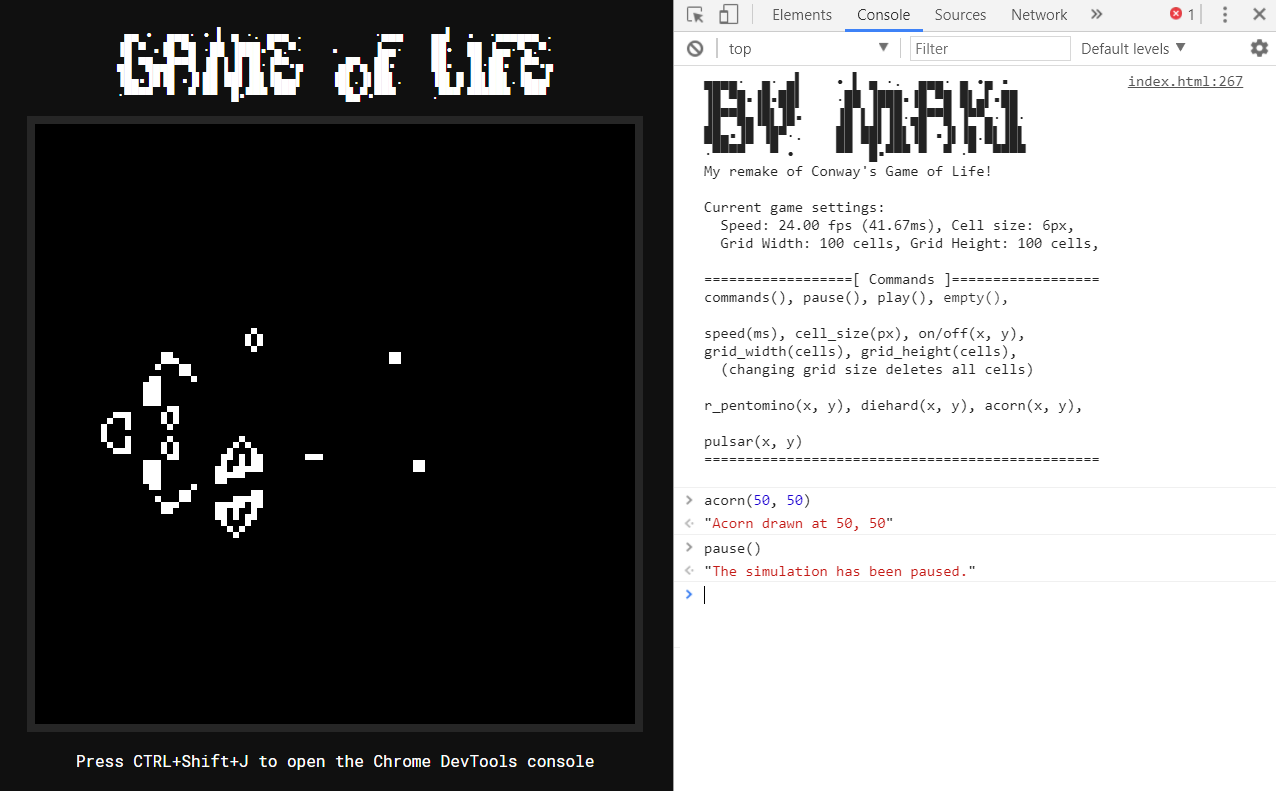
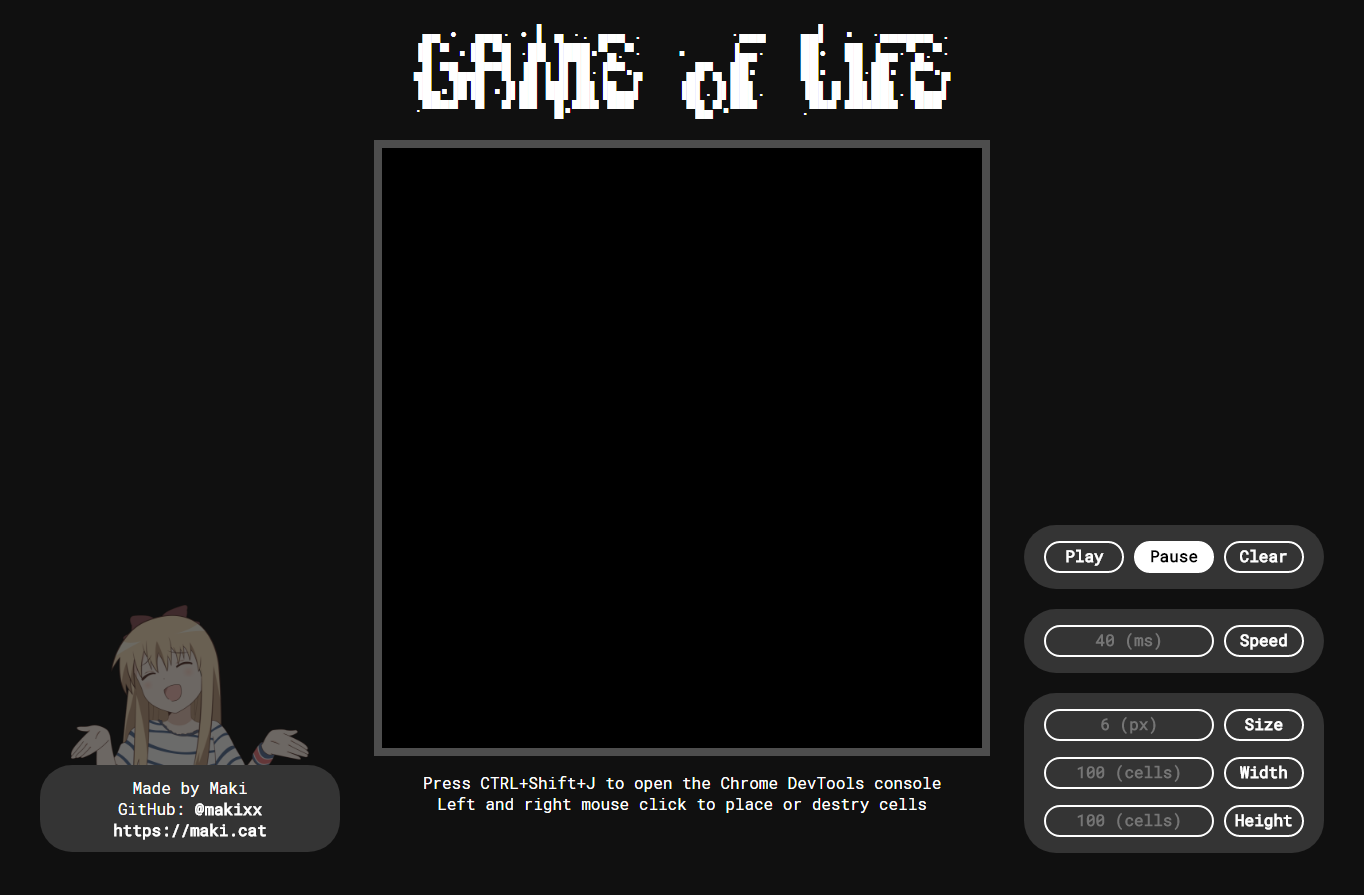
UI update

diff --git a/index.html b/index.html
@@ -2,7 +2,7 @@
 <html>
 	<head>
 		<title>Conway's Game of Life</title>
-		<link href="https://fonts.googleapis.com/css?family=Roboto+Mono" rel="stylesheet">
+		<link href="https://fonts.googleapis.com/css?family=Roboto+Mono:400|700" rel="stylesheet">
 		<style type="text/css">
 			body {
 				background-color: #101010;
@@ -12,30 +12,118 @@
 			}
 
 			#view, #title, #sub-title {
-				position: fixed; margin: auto;
+				position: absolute; margin: auto;
 				left: 0; right: 0;
 			}
 
-			#title, #sub-title { width: 100%; height: 100px; }
-			#title { top: 0; bottom: 720px; }
-			#sub-title { bottom: 0; top: 720px; }
+			#title, #sub-title { height: 100px; }
+			#title { top: 0; bottom: 780px; }
+			#sub-title { bottom: 0; top: 740px; }
 
 			#view {
 				top: 0; bottom: 0;
 				background-color: #000000;
-				border: solid 8px rgba(255, 255, 255, 0.15);
+				border: solid 8px rgba(255, 255, 255, 0.3);
+			}
+
+			::selection { background: transparent; opacity: 0; }
+			::-moz-selection { background: transparent; opacity: 0; }
+
+			#sidebar, #infobar {
+				z-index: 2000;
+				position: fixed; margin: auto;
+				bottom: 40px;
+				width: 300px;
+			}
+			#sidebar { right: 40px; height: 330px; }
+			#infobar { left: 40px; height: 250px; }
+
+			button, input {
+				font-family: "Roboto Mono";
+				font-weight: 700;
+				font-size: 16px;
+				color: #ffffff;
+				background: transparent;
+				border: solid 2px #ffffff;
+				border-radius: 32px;
+				margin: 8px 0;
+				text-align: center;
+				transition: all 200ms cubic-bezier(0.0, 0.0, 0.2, 1);
+			}
+
+			button { 
+				width: 80px;
+				height: 32px;
+				padding: 0 0 4px 0;
+			}
+
+			input {
+				width: 166px;
+				height: 24px;
+				padding: 0 0 4px 0;
+			}
+
+			button:hover, input:hover, .active {
+				background-color: #ffffff;
+				color: #000000;
+			}
+
+			.box {
+				background-color: rgba(255, 255, 255, 0.15);
+				border-radius: 32px;
+				margin-bottom: 20px;
+				padding: 8px 20px;
+			}
+
+			p {
+				margin: 4px;
+			}
+
+			button:focus, input:focus { outline: none; }
+
+			a, a:link, a:hover, a:visited {
+				color: #ffffff;
+				text-decoration: none;
+				font-weight: 700;
 			}
 		</style>
 	</head>
 	<body>
-		<div id="title"><pre>
+		<div id="title"><pre style="font-size: 16px;">
  ▄▄ •  ▄▄▄· • ▌ ▄ ·. ▄▄▄ .          ·▄▄▄    ▄▄▌  ▪  ·▄▄▄▄▄▄ .
 ▐█ ▀ ▪▐█ ▀█ ·██ ▐███▪▀▄.▀·    ▪     ▐▄▄·    ██•  ██ ▐▄▄·▀▄.▀·
 ▄█ ▀█▄▄█▀▀█ ▐█ ▌▐▌▐█·▐▀▀▪▄     ▄█▀▄ ██▪     ██▪  ▐█·██▪ ▐▀▀▪▄
 ▐█▄▪▐█▐█ ▪▐▌██ ██▌▐█▌▐█▄▄▌    ▐█▌.▐▌██▌.    ▐█▌▐▌▐█▌██▌.▐█▄▄▌
 ·▀▀▀▀  ▀  ▀ ▀▀  █▪▀▀▀ ▀▀▀      ▀█▄▀▪▀▀▀     .▀▀▀ ▀▀▀▀▀▀  ▀▀▀ 
 		</pre></div>
-		<div id="sub-title"><p>Press CTRL+Shift+J to open the Chrome DevTools console</p></div>
+		<div id="sub-title">
+			<p>Press CTRL+Shift+J to open the Chrome DevTools console<br>Left and right mouse click to place or destroy cells</p>
+		</div>
+		<div id="sidebar">
+			<div class="box">
+				<button id="play" onclick="play()">Play</button>
+				<button id="pause" class="active" onclick="pause()">Pause</button>
+				<button onclick="empty()">Clear</button>
+			</div>
+			<div class="box">
+				<input type="text" id="speed" placeholder="40 (ms)">
+				<button onclick="speed(parseInt(document.getElementById('speed').value))">Speed</button>
+			</div>
+			<div class="box">
+				<input type="text" id="size" placeholder="6 (px)">
+				<button onclick="cell_size(parseInt(document.getElementById('size').value))">Size</button>
+				<input type="text" id="width" placeholder="100 (cells)">
+				<button onclick="grid_width(parseInt(document.getElementById('width').value))">Width</button>
+				<input type="text" id="height" placeholder="100 (cells)">
+				<button onclick="grid_height(parseInt(document.getElementById('height').value))">Height</button>
+			</div>
+		</div>
+		<div id="infobar">
+			<img src="kyouko.png" style="height: 160px; margin-bottom: -4.5px; opacity: 0.4;">
+			<div class="box">
+				<p>Made by Maki<br>GitHub: <a href="https://github.com/makixx" target="_blank">@makixx</a><br><a href="https://maki.cat" target="_blank">https://maki.cat</a></p>
+			</div>
+		</div>
 		<canvas id="view"></canvas>			
 		<script type="text/javascript">
 			// ----------------
@@ -49,7 +137,7 @@
 				width: 100, // Cells on screen
 				height: 100, // ^
 				size: 6, // Physical pixel size
-				speed: 1000/24, // Milliseconds
+				speed: 40, // Milliseconds
 				cells: [],
 				mem_cells: []
 			};
@@ -155,7 +243,7 @@
 
 			window.onload = function() {
 				draw(); draw_interval = setInterval(function(){draw()}, game.speed);
-				update(); update_interval = setInterval(function(){update()}, game.speed);
+				update_interval = setInterval(function(){}, game.speed);
 			}
 
 			// -----------------
@@ -163,14 +251,18 @@
 			// -----------------
 
 			function pause() {
-				clearInterval(draw_interval); draw();
-				clearInterval(update_interval); update()
+				clearInterval(update_interval);
+				document.getElementById("view").style.border = "solid 8px rgba(255, 255, 255, 0.3)";
+				document.getElementById("play").classList.remove("active");
+				document.getElementById("pause").classList.add("active");
 				return "The simulation has been paused.";
 			}
 
 			function play() {
-				draw(); draw_interval = setInterval(function(){draw()}, game.speed);
-				update(); update_interval = setInterval(function(){update()}, game.speed);
+				update_interval = setInterval(function(){update()}, game.speed);
+				document.getElementById("view").style.border = "solid 8px rgba(255, 255, 255, 0.15)";
+				document.getElementById("pause").classList.remove("active");
+				document.getElementById("play").classList.add("active");
 				return "The simulation has started."
 			}
 
@@ -183,8 +275,10 @@
 				clearInterval(draw_interval);
 				clearInterval(update_interval);
 				game.speed = ms;
+				document.getElementById("speed").value = "";
+				document.getElementById("speed").placeholder = game.speed+" (ms)";
 				draw(); draw_interval = setInterval(function(){draw()}, game.speed);
-				update(); update_interval = setInterval(function(){update()}, game.speed);
+				play();
 				return "Speed set to "+(1000/game.speed).toFixed(2)+" fps ("+game.speed.toFixed(2)+"ms)";
 			}
 
@@ -192,8 +286,10 @@
 				game.size = px;
 				canv.width = game.width * game.size;
 				canv.height = game.height * game.size;
-				document.getElementById("title").style.bottom = canv.height+120+"px";
-				document.getElementById("sub-title").style.top = canv.height+120+"px";
+				document.getElementById("title").style.bottom = canv.height+180+"px";
+				document.getElementById("sub-title").style.top = canv.height+140+"px";
+				document.getElementById("size").value = "";
+				document.getElementById("size").placeholder = game.size+" (px)";
 				return "Grid Width: "+game.width+" cells,\nGrid Height: "+game.height+" cells,\nCell size: "+game.size+"px"
 			}
 
@@ -205,6 +301,8 @@
 				cell_size(game.size);
 				init_cells(game.cells);
 				init_cells(game.mem_cells);
+				document.getElementById("width").value = "";
+				document.getElementById("width").placeholder = game.width+" (cells)";
 				return "Grid Width: "+game.width+" cells,\nGrid Height: "+game.height+" cells,\nCell size: "+game.size+"px"
 			}
 
@@ -213,6 +311,8 @@
 				cell_size(game.size);
 				init_cells(game.cells);
 				init_cells(game.mem_cells);
+				document.getElementById("height").value = "";
+				document.getElementById("height").placeholder = game.height+" (cells)";
 				return "Grid Width: "+game.width+" cells,\nGrid Height: "+game.height+" cells,\nCell size: "+game.size+"px"
 			}
 
@@ -271,6 +371,19 @@
 
 			console.log("▄▄▄▄·  ▄· ▄▌    • ▌ ▄ ·.  ▄▄▄· ▄ •▄ ▪  \n▐█ ▀█▪▐█▪██▌    ·██ ▐███▪▐█ ▀█ █▌▄▌▪██ \n▐█▀▀█▄▐█▌▐█▪    ▐█ ▌▐▌▐█·▄█▀▀█ ▐▀▀▄·▐█·\n██▄▪▐█ ▐█▀·.    ██ ██▌▐█▌▐█ ▪▐▌▐█.█▌▐█▌\n·▀▀▀▀   ▀ •     ▀▀  █▪▀▀▀ ▀  ▀ ·▀  ▀▀▀▀\nMy remake of Conway's Game of Life!\n\nCurrent game settings:\n  Speed: "+(1000/game.speed).toFixed(2)+" fps ("+game.speed.toFixed(2)+"ms), Cell size: "+game.size+"px,\n  Grid Width: "+game.width+" cells, Grid Height: "+game.height+" cells,\n\n"+commands()+"\n\n");
 
+			// ----------------------
+			// Clicking on the canvas
+			// ----------------------
+
+			canv.oncontextmenu = function (e) { e.preventDefault(); };
+
+			canv.addEventListener("mouseup", function(e) {
+				let x = Math.floor((e.pageX-canv.offsetLeft-8)/game.size); // 8px for the border
+				let y = Math.floor((e.pageY-canv.offsetTop-8)/game.size); // ^
+				
+				if (e.button == 0) { on(x, y); }
+				if (e.button == 2) { off(x, y); }
+			});
 		</script>
 	</body>
 </html>
